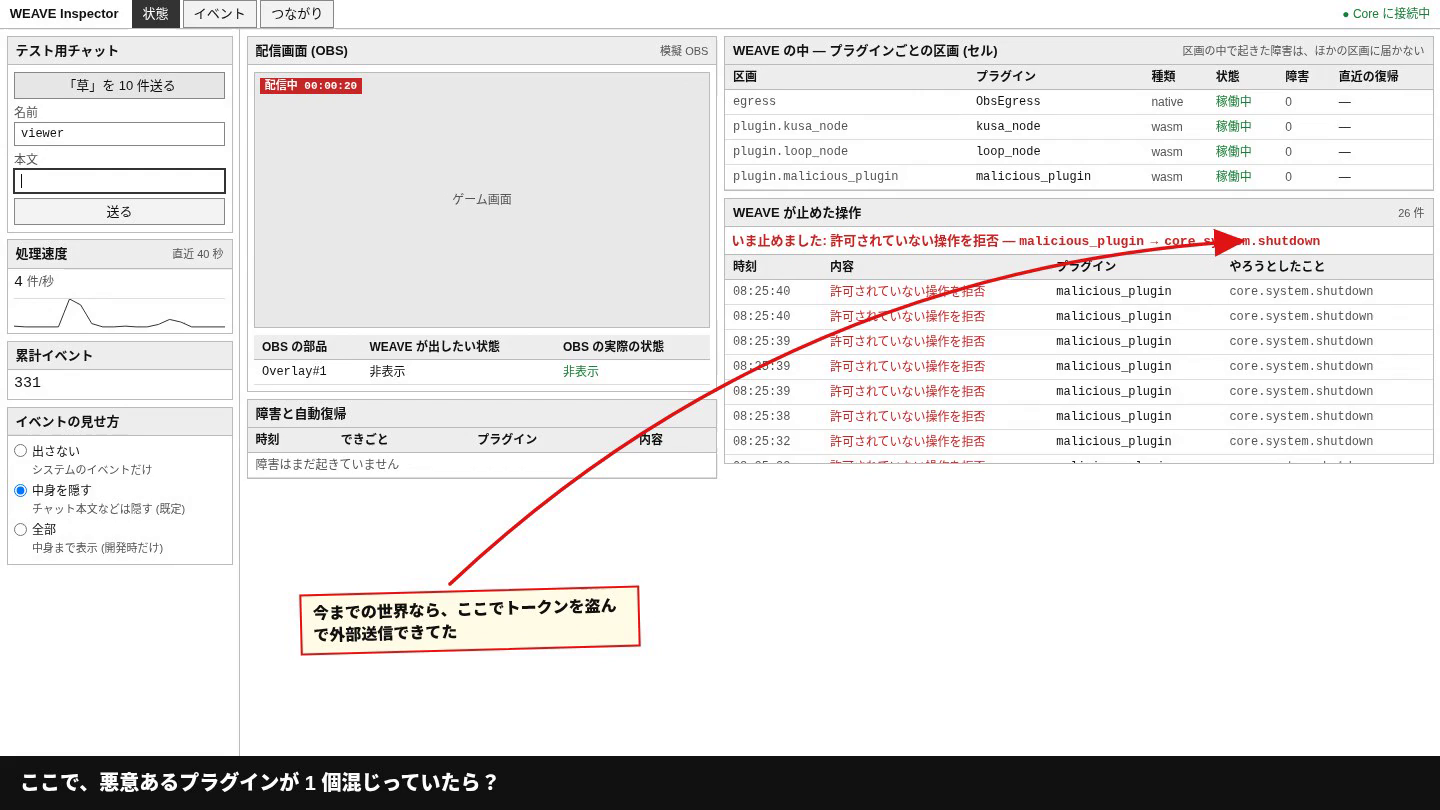
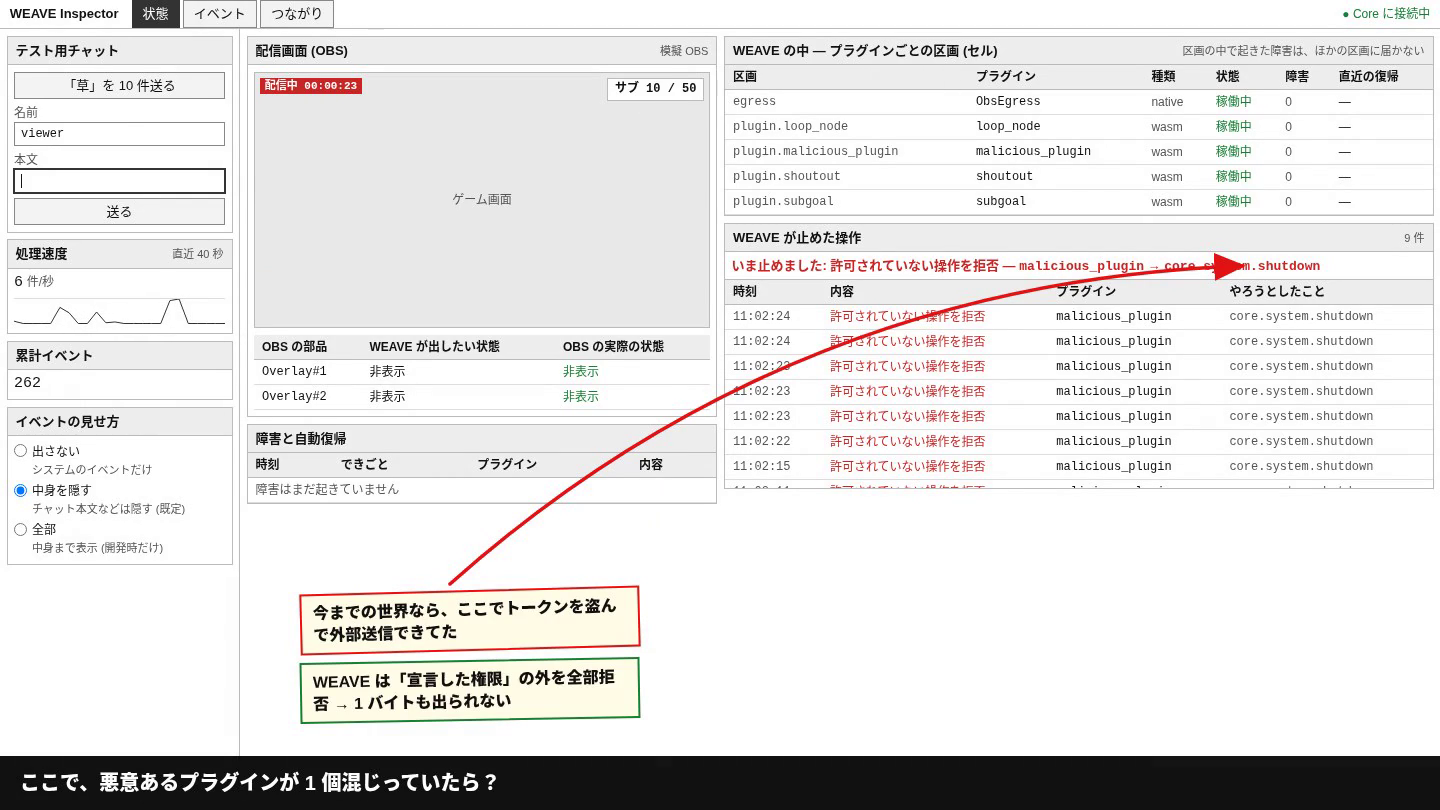
feat(plugins,demo): 実用プラグイン (サブ目標バー / シャウトアウト) を追加し、デモの主役に
デモの「ふだんの配信」役が草の演出 (お遊び) だったのを、配信者が実際に使うツールに差し替える。
- wasm-apps/subgoal: サブスク目標バー「サブ N / 50」を配信画面に出し、新しいサブでお祝いを数秒表示。
  数は sdk.exportState に預ける。!sub / !goal / ext.subgoal.cmd で操作
- wasm-apps/shoutout: 「!so <名前>」で配信者紹介カードを数秒出す (Nightbot / Streamer.bot 系)
- どちらも OBS へのテキスト更新 (SetInputSettings) と表示切替 (SetSceneItemEnabled) を、manifest で
  宣言した権限の中だけで行う。kusa は e2e で多用するため残置
- Inspector: SetInputSettings のテキストを追跡し (obsText)、配信画面にサブ目標バーとカードを描画
- 動画/before_after を実用プラグインで撮り直し。static も更新
検証: zig build test_all 129/129、svelte-check エラー 0

diff --git a/dashboard/src/lib/components/ObsPreview.svelte b/dashboard/src/lib/components/ObsPreview.svelte
@@ -1,6 +1,6 @@
 <script lang="ts">
   import { onDestroy } from 'svelte';
-  import { obsState, sessionStart } from '../stores';
+  import { obsState, obsText, sessionStart } from '../stores';
 
   // 「配信は止まっていない」ことを見せるための経過時間
   let now = $state(Date.now());
@@ -25,7 +25,10 @@
       shown: $obsState.actual[k] ?? $obsState.requested[k] ?? false,
     }));
   });
-  let grassOn = $derived(items.some((i) => i.key === 'Overlay#1' && i.shown));
+  // オーバーレイ (Overlay#1 = サブのお祝い / Overlay#2 = シャウトアウト) が出ているか、その文言
+  let overlayOn = $derived(items.some((i) => (i.key === 'Overlay#1' || i.key === 'Overlay#2') && i.shown));
+  let overlayText = $derived($obsText['Overlay'] ?? '');
+  let subGoal = $derived($obsText['SubGoal'] ?? '');
 </script>
 
 <div class="panel">
@@ -50,9 +53,14 @@
         配信中 {fmt(now - sessionStart)}
       </div>
       <div class="absolute inset-0 flex items-center justify-center dim text-[12px]">ゲーム画面</div>
-      {#if grassOn}
-        <div class="absolute inset-x-0 bottom-0 py-2 text-center bg-[var(--ok)] text-white text-[20px] font-bold">
-          草 草 草 ｗｗｗ
+      <!-- 配信画面に常に出しておくウィジェット (サブ目標バー) -->
+      {#if subGoal}
+        <div class="absolute top-1.5 right-1.5 px-2 py-0.5 text-[12px] font-bold mono bg-white border border-[var(--line)]">{subGoal}</div>
+      {/if}
+      <!-- サブのお祝い / シャウトアウトのカード (数秒だけ) -->
+      {#if overlayOn}
+        <div class="absolute inset-x-0 bottom-0 py-2 text-center bg-[var(--ok)] text-white text-[19px] font-bold">
+          {overlayText || '🎉'}
         </div>
       {/if}
     </div>

diff --git a/dashboard/src/lib/websocket.ts b/dashboard/src/lib/websocket.ts
@@ -13,6 +13,7 @@ import {
   type NodeView,
   nodes,
   obsState,
+  obsText,
 } from './stores';
 
 let socket: WebSocket | null = null;
@@ -210,6 +211,13 @@ function route(msg: EventMessage) {
 
   if (t === 'core.obs.link') {
     return obsState.update((s) => ({ ...s, link: !!p?.connected, reconnects: p?.reconnects ?? s.reconnects }));
+  }
+
+  if (t === 'core.obs.request.SetInputSettings') {
+    const name = p?.inputName;
+    const text = p?.inputSettings?.text;
+    if (name && typeof text === 'string') obsText.update((m) => ({ ...m, [name]: text }));
+    return;
   }
 
   if (t === 'core.obs.request.SetSceneItemEnabled') {

diff --git a/dashboard/src/lib/stores.ts b/dashboard/src/lib/stores.ts
@@ -81,6 +81,7 @@ export const nodes = writable<Record<number, NodeView>>({});
 export const edges = writable<GraphEdge[]>([]);
 export const metrics = writable<SystemMetrics>({ eps: 0, totalEvents: 0 });
 export const epsHistory = writable<number[]>([]);
+export const obsText = writable<Record<string, string>>({});
 export const eventLogs = writable<EventMessage[]>([]);
 export const securityEvents = writable<SecurityEvent[]>([]);
 export const faultTimeline = writable<FaultEntry[]>([]);

diff --git a/demo/README.md b/demo/README.md
@@ -37,6 +37,19 @@ weave demo before_after        # または ./demo/run_before_after_demo.sh
 | `weave demo signature` | 改ざんしたプラグインが署名検証で起動拒否される |
 | `weave demo kusa` | チャットの盛り上がりを OBS のオーバーレイに反映する基本形 |
 
+## 実用プラグイン (配信者が実際に使うツール)
+
+デモの「ふだんの配信」役は、配信者が実際に使うツールを SDK で書いたもの:
+
+| プラグイン | 何をする | 操作 |
+|---|---|---|
+| `subgoal` | サブスク目標バー「サブ N / 50」を配信画面に出し、新しいサブでお祝い | チャット `!sub` / `!goal 100`、`ext.subgoal.cmd` |
+| `shoutout` | `!so <名前>` で配信者紹介カードを数秒出す (Nightbot/Streamer.bot 系) | チャット `!so <名前>` |
+| `countdown` | OBS 同梱 Countdown スクリプトの振る舞いを移植したタイマー | `ext.countdown.cmd` |
+
+どれも OBS へのテキスト更新 (`SetInputSettings`) と表示切替 (`SetSceneItemEnabled`) を、manifest で宣言した
+権限の中だけで行う。`weave audit <名前>` で「乗っ取られても OBS のこの操作まで」を起動前に確認できる。
+
 ## e2e (CI で毎回まわる、動く証拠)
 
 `tests/e2e/` に、この主張をテストにしたものが並んでいる (`tests/e2e/README.md`)。
